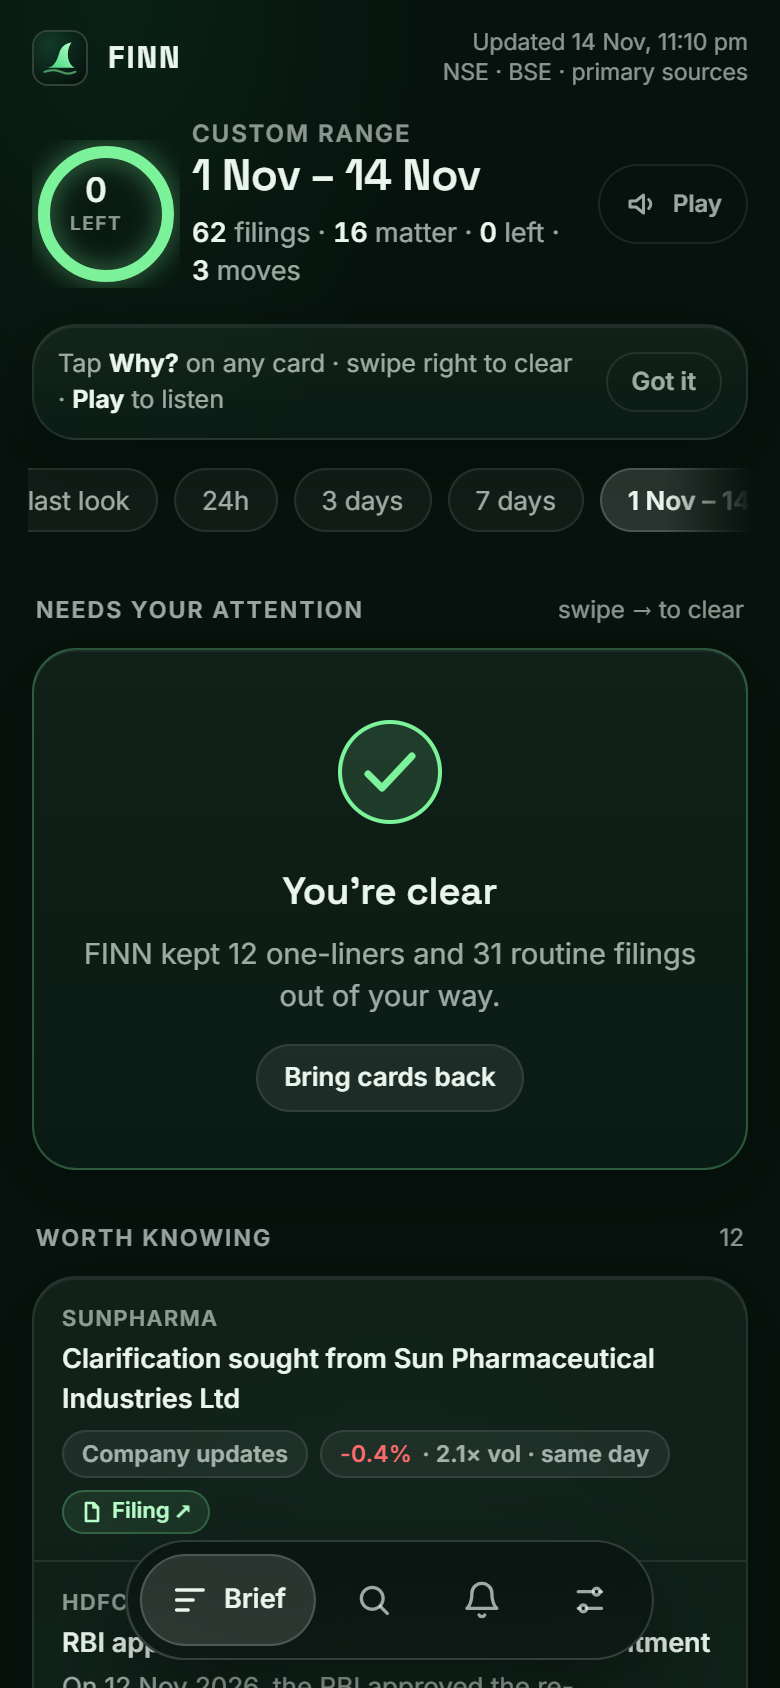
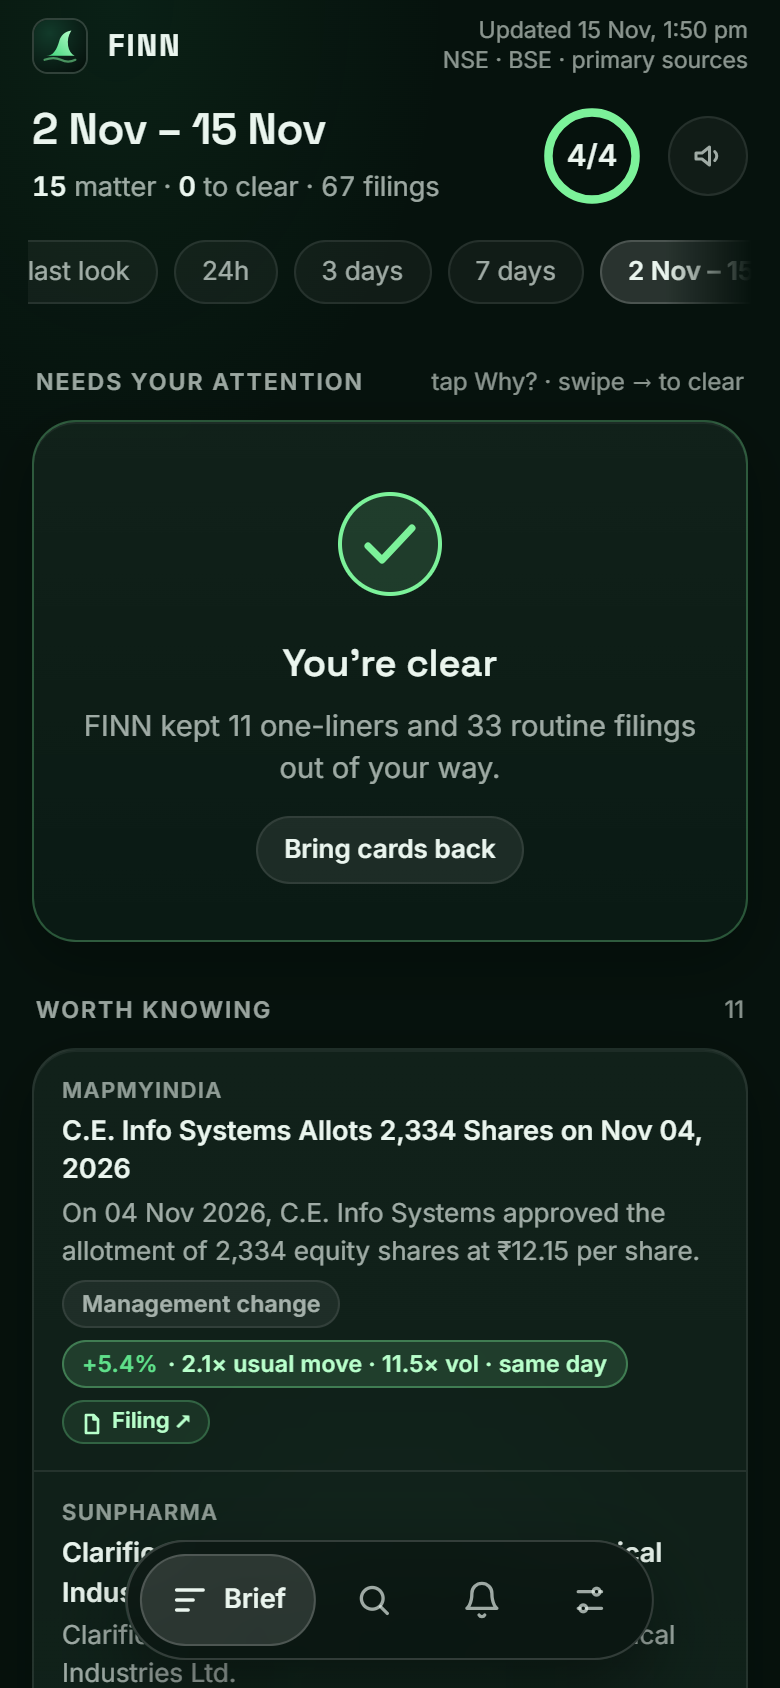
Brief: one calm header
Short title, one line of counts, a small ring and an icon-only Play; the
quiet-window note moves under the window chips; the tip box becomes the
section hint.

diff --git a/frontend/src/screens/Brief.tsx b/frontend/src/screens/Brief.tsx
@@ -68,8 +68,6 @@ export default function Brief({ onOpenResearch }: { onOpenResearch: (t: string) 
   const [tune, setTune] = useState<Record<string, number>>(() => prefs.tune());
   const [openCat, setOpenCat] = useState<string | null>(null);
   const [toast, setToast] = useState<string | null>(null);
-  const [tip, setTip] = useState(() => { try { return !localStorage.getItem("finn.tip"); } catch { return false; } });
-  const closeTip = () => { setTip(false); try { localStorage.setItem("finn.tip", "1"); } catch { /* private mode */ } };
   const [playing, setPlaying] = useState(false);
   useEffect(() => () => { if ("speechSynthesis" in window) window.speechSynthesis.cancel(); }, []);
 
@@ -175,30 +173,19 @@ export default function Brief({ onOpenResearch }: { onOpenResearch: (t: string) 
   return (
     <div>
       <div className="brief-head">
-        {ranked.hero.length > 0 && <Ring done={heroDone} total={ranked.hero.length} />}
         <div style={{ flex: 1, minWidth: 0 }}>
-          {win === "custom" && range && <div className="small faint" style={{ letterSpacing: ".08em", fontWeight: 600 }}>CUSTOM RANGE</div>}
-          <h1 className="h1">{quietLabel ? `Nothing urgent ${/^since/.test(quietLabel) ? "" : "in the "}${quietLabel}` : win === "since_last_look" ? "Since last look" : win === "custom" && range ? brief.window.label : `Your ${brief.window.label}`}</h1>
-          {quietLabel && <div className="small muted" style={{ marginTop: 4 }}>Here is what mattered in the {brief.window.label}.</div>}
+          <h1 className="h1">{win === "custom" && range ? brief.window.label : "Your brief"}</h1>
           <div className="counts tnum">
-            <b>{brief.header.filings}</b> {plural(brief.header.filings, "filing")} · <b>{matter}</b> matter · <b>{heroLeft.length}</b> left
-            {brief.alerts?.length ? <> · <b>{brief.alerts.length}</b> moves</> : null}
+            <b>{matter}</b> matter · <b>{heroLeft.length}</b> to clear · {brief.header.filings} {plural(brief.header.filings, "filing")}
           </div>
         </div>
-        {matter > 0 && <button className={`why-btn ${playing ? "on" : ""}`} onClick={playBrief} aria-pressed={playing}
-          aria-label={playing ? "Stop reading" : "Play my brief (about a minute)"}
-          style={{ height: 40, padding: "0 12px", display: "flex", alignItems: "center", gap: 6,
-            ...(playing ? { background: "var(--mint)", color: "var(--mint-ink)", borderColor: "transparent" } : {}) }}>
-          {Icon.speaker}<span className="small" style={{ fontWeight: 600 }}>{playing ? "Stop" : "Play"}</span>
+        {ranked.hero.length > 0 && <Ring done={heroDone} total={ranked.hero.length} />}
+        {matter > 0 && <button className={`icon-btn ${playing ? "on" : ""}`} onClick={playBrief} aria-pressed={playing}
+          aria-label={playing ? "Stop reading" : "Play my brief (about a minute)"} title={playing ? "Stop" : "Play my brief"}>
+          {playing ? <span className="stop-sq" aria-hidden /> : Icon.speaker}
         </button>}
       </div>
 
-      {tip && (
-        <div className="glass" style={{ display: "flex", alignItems: "center", gap: 10, padding: "10px 12px", marginBottom: 12, fontSize: 12.5 }}>
-          <span className="muted" style={{ flex: 1 }}>Tap <b style={{ color: "var(--text)" }}>Why?</b> on any card · swipe right to clear · <b style={{ color: "var(--text)" }}>Play</b> to listen</span>
-          <button className="why-btn" onClick={closeTip} aria-label="Dismiss tip">Got it</button>
-        </div>
-      )}
       <div className="chips" role="toolbar" aria-label="Time window">
         {WINDOWS.map((w) => (
           <button key={w.key} className="chip" aria-pressed={w.key === win}
@@ -216,6 +203,11 @@ export default function Brief({ onOpenResearch }: { onOpenResearch: (t: string) 
         )}
       </AnimatePresence>
       {liveNote && win === "custom" && <div className="notice" style={{ marginTop: 10 }}>{liveNote}</div>}
+      {quietLabel && (
+        <div className="small muted" style={{ margin: "10px 2px 0" }}>
+          Nothing urgent {/^since/.test(quietLabel) ? quietLabel.replace("since you last looked", "since your last look") : `in the ${quietLabel}`}. Showing the {brief.window.label}.
+        </div>
+      )}
 
       {ranked.hero.length === 0 && ranked.one.length === 0 ? (
         <div className="glass card empty" style={{ marginTop: 14 }}>
@@ -224,7 +216,7 @@ export default function Brief({ onOpenResearch }: { onOpenResearch: (t: string) 
         </div>
       ) : ranked.hero.length === 0 ? null : (
         <>
-          <div className="section-title"><h2>Needs your attention</h2><span className="meta">swipe → to clear</span></div>
+          <div className="section-title"><h2>Needs your attention</h2><span className="meta">tap Why? · swipe → to clear</span></div>
           <AnimatePresence initial={false} mode="popLayout">
             {heroLeft.map((e) => (
               <motion.div key={id(e)} layout={!reduce} initial={{ opacity: 0, y: 12 }} animate={{ opacity: 1, y: 0 }}

diff --git a/frontend/src/styles.css b/frontend/src/styles.css
@@ -153,11 +153,11 @@ h1, h2, h3 { margin: 0; font-weight: 600; }
 .nav .dot { position: absolute; top: 9px; right: 11px; width: 7px; height: 7px; border-radius: 50%; background: var(--mint); }
 
 /* ---------- brief ---------- */
-.brief-head { display: flex; align-items: center; gap: 16px; margin: 6px 0 16px; }
+.brief-head { display: flex; align-items: center; gap: 12px; margin: 4px 0 14px; }
 .brief-head .counts { font-size: 13.5px; color: var(--text-2); margin-top: 6px; }
 .brief-head .counts b { color: var(--text); font-weight: 600; }
-.ring { flex: none; position: relative; width: 64px; height: 64px; }
-.ring .ring-label { position: absolute; inset: 0; display: grid; place-items: center; text-align: center; font-family: var(--font); font-variant-numeric: tabular-nums; font-size: 17px; font-weight: 600; line-height: 1; }
+.ring { flex: none; position: relative; width: 52px; height: 52px; }
+.ring .ring-label { position: absolute; inset: 0; display: grid; place-items: center; text-align: center; font-family: var(--font); font-variant-numeric: tabular-nums; font-size: 15px; font-weight: 600; line-height: 1; }
 .ring .ring-label small { display: block; font-family: var(--font); font-size: 9.5px; font-weight: 600; letter-spacing: 0.08em; color: var(--text-3); margin-top: 3px; }
 
 .swipe-wrap { position: relative; touch-action: pan-y; }
@@ -316,3 +316,9 @@ h1, h2, h3 { margin: 0; font-weight: 600; }
 .seg { display: inline-flex; flex: none; border: 1px solid var(--line); border-radius: var(--pill); overflow: hidden; }
 .seg button { height: 28px; padding: 0 10px; font-size: 11.5px; font-weight: 600; color: var(--text-3); }
 .seg button[aria-pressed="true"] { background: rgba(255,255,255,0.14); color: var(--text); }
+
+.icon-btn { flex: none; width: 40px; height: 40px; border-radius: 50%; display: grid; place-items: center;
+  border: 1px solid var(--line); color: var(--text-2); background: var(--glass); }
+.icon-btn svg { width: 18px; height: 18px; }
+.icon-btn.on { background: rgba(255,255,255,0.14); color: var(--text); border-color: var(--line-strong); }
+.stop-sq { width: 12px; height: 12px; border-radius: 2px; background: currentColor; }

diff --git a/frontend/src/components/ui.tsx b/frontend/src/components/ui.tsx
@@ -64,18 +64,17 @@ export function Ring({ done, total }: { done: number; total: number }) {
   const frac = total ? done / total : 1;
   return (
     <div className="ring" role="img" aria-label={`${done} of ${total} cleared`}>
-      <svg width="74" height="74" viewBox="0 0 74 74">
+      <svg width="100%" height="100%" viewBox="0 0 74 74">
         <circle cx="37" cy="37" r={r} stroke="rgba(255,255,255,0.08)" strokeWidth="6" fill="none" />
         <motion.circle
           cx="37" cy="37" r={r} stroke="var(--mint)" strokeWidth="6" fill="none" strokeLinecap="round"
           strokeDasharray={c} transform="rotate(-90 37 37)"
           initial={false} animate={{ strokeDashoffset: c * (1 - frac) }}
           transition={{ type: "spring", stiffness: 120, damping: 20 }}
-          style={{ filter: "drop-shadow(0 0 6px rgba(124,242,154,0.55))" }}
         />
       </svg>
       <div className="ring-label">
-        <div>{total - done}<small>LEFT</small></div>
+        <div>{done}/{total}</div>
       </div>
     </div>
   );
